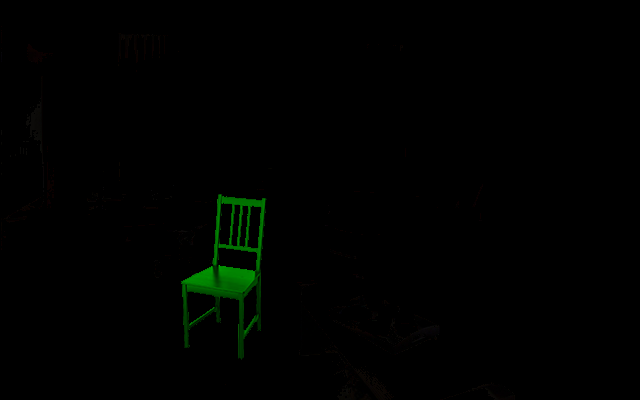
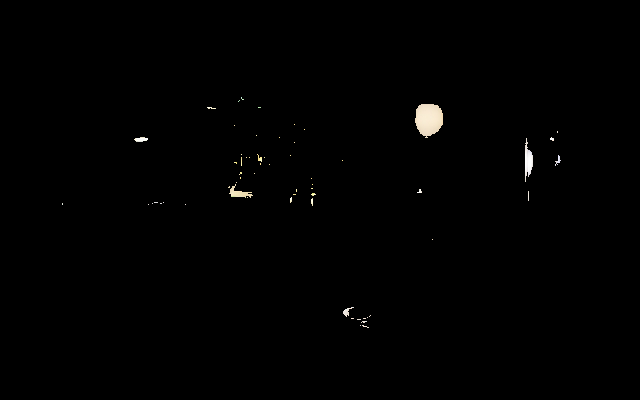
Prepare for multiple stage

diff --git a/maindisplay.py b/maindisplay.py
@@ -14,10 +14,10 @@ pygame.display.set_caption("gameplay")
 screen = pygame.display.set_mode((1280, 720))
 
 
-def result():
-    font = pygame.font.Font('freesansbold.ttf', 32)
+def result(stage):
+    font = pygame.font.Font("freesansbold.ttf", 32)
     head = font.render("Your Score", True, (255, 255, 255))
-    score = font.render(checkresult.run(), True, (255, 255, 255))
+    score = font.render(checkresult.run(stage), True, (255, 255, 255))
     while True:
         screen.fill((128, 128, 128))
 
@@ -33,14 +33,14 @@ def result():
             if event.type == pygame.KEYUP:
                 if event.key == pygame.K_SPACE:
                     menu()
-        
-        checkresult.run()
+
+        checkresult.run(stage)
 
         pygame_widgets.update(events)
         pygame.display.update()
 
 
-def main():
+def main(stage):
     # HSL
     top_hue = 0
     bottom_hue = 0
@@ -74,7 +74,7 @@ def main():
         # Screen color | RGB
         screen.fill((128, 128, 128))
 
-        img = setimg()
+        img = setimg(stage)
 
         # Place image in to screen
         screen.blit(img, (20, 20))
@@ -101,7 +101,7 @@ def main():
                     t_l_slider.hide()
                     b_l_slider.hide()
                     submit.hide()
-                    result()
+                    result(stage)
 
         # Get value from slider
         top_hue = t_h_slider.getValue()
@@ -119,7 +119,36 @@ def main():
             top_hue,
             top_saturation,
             top_lightness,
+            stage
         )
+
+        pygame_widgets.update(events)
+        pygame.display.update()
+
+def chosestage():
+    stage1 = pygame.image.load("image_UI/stage01.png").convert_alpha()
+
+    while True:
+        screen.fill((128, 128, 128))
+
+        screen.blit(stage1, (0, 0))
+
+        mouse_location = pygame.mouse.get_pos()
+        events = pygame.event.get()
+        for event in events:
+            if event.type == pygame.QUIT:
+                pygame.quit()
+                sys.exit()
+            if event.type == pygame.MOUSEBUTTONDOWN:
+                mouse_press = pygame.mouse.get_pressed()
+                if (
+                    mouse_press[0]
+                    and mouse_location[0] >= 0
+                    and mouse_location[0] <= 200
+                    and mouse_location[1] >= 0
+                    and mouse_location[1] <= 200
+                ):
+                    main(1)
 
         pygame_widgets.update(events)
         pygame.display.update()
@@ -136,7 +165,7 @@ def menu():
         button_positions[1],
         button_size[0],
         button_size[1],
-        text="Submit",
+        text="Start",
         inactiveColour=(200, 50, 0),
     )
     # Screen color | RGB
@@ -159,7 +188,7 @@ def menu():
                 ):
                     # The button is clicked, perform your action
                     button.hide()  # Hide the button
-                    main()
+                    chosestage()
 
         pygame_widgets.update(events)
         pygame.display.update()

diff --git a/output.py b/output.py
@@ -3,16 +3,19 @@ import pygame_widgets
 import cv2
 import numpy as np
 
-def output(b_h, b_s, b_l, t_h, t_s, t_l):
-    test = "pictures/baseimgs/room-1-with-obj.png"
-    cv_img = cv2.imread(test)
+def output(b_h, b_s, b_l, t_h, t_s, t_l, stage):
+    baseimg = "pictures/baseimgs/room-%d-with-obj.png" % stage
+    changeimg = "pictures/outputimgs/room-%d-with-obj-change.png" % stage
+
+    cv_img = cv2.imread(baseimg)
     lower = np.array([b_h, b_s, b_l])
     upper = np.array([t_h, t_s, t_l])
     mask = cv2.inRange(cv_img, lower, upper)
     res = cv2.bitwise_and(cv_img, cv_img, mask=mask)
-    cv2.imwrite("pictures/outputimgs/room-1-with-obj-change.png", res)
+    cv2.imwrite(changeimg, res)
 
 
-def setimg():
-    img = pygame.image.load("pictures/outputimgs/room-1-with-obj-change.png").convert_alpha()
+def setimg(stage):
+    changeimg = "pictures/outputimgs/room-%d-with-obj-change.png" % stage
+    img = pygame.image.load(changeimg).convert_alpha()
     return img

diff --git a/checkresult.py b/checkresult.py
@@ -2,9 +2,12 @@ from skimage.metrics import structural_similarity
 import cv2
 
 
-def run():
-    first = cv2.imread("pictures/checkimgs/room-1-with-obj-check.png")
-    second = cv2.imread("pictures/outputimgs/room-1-with-obj-change.png")
+def run(stage):
+    ansimg = "pictures/checkimgs/room-%d-with-obj-check.png" % stage
+    checkimg = "pictures/outputimgs/room-%d-with-obj-change.png" % stage
+
+    first = cv2.imread(ansimg)
+    second = cv2.imread(checkimg)
 
     # Convert images to grayscale
     first_gray = cv2.cvtColor(first, cv2.COLOR_BGR2GRAY)
